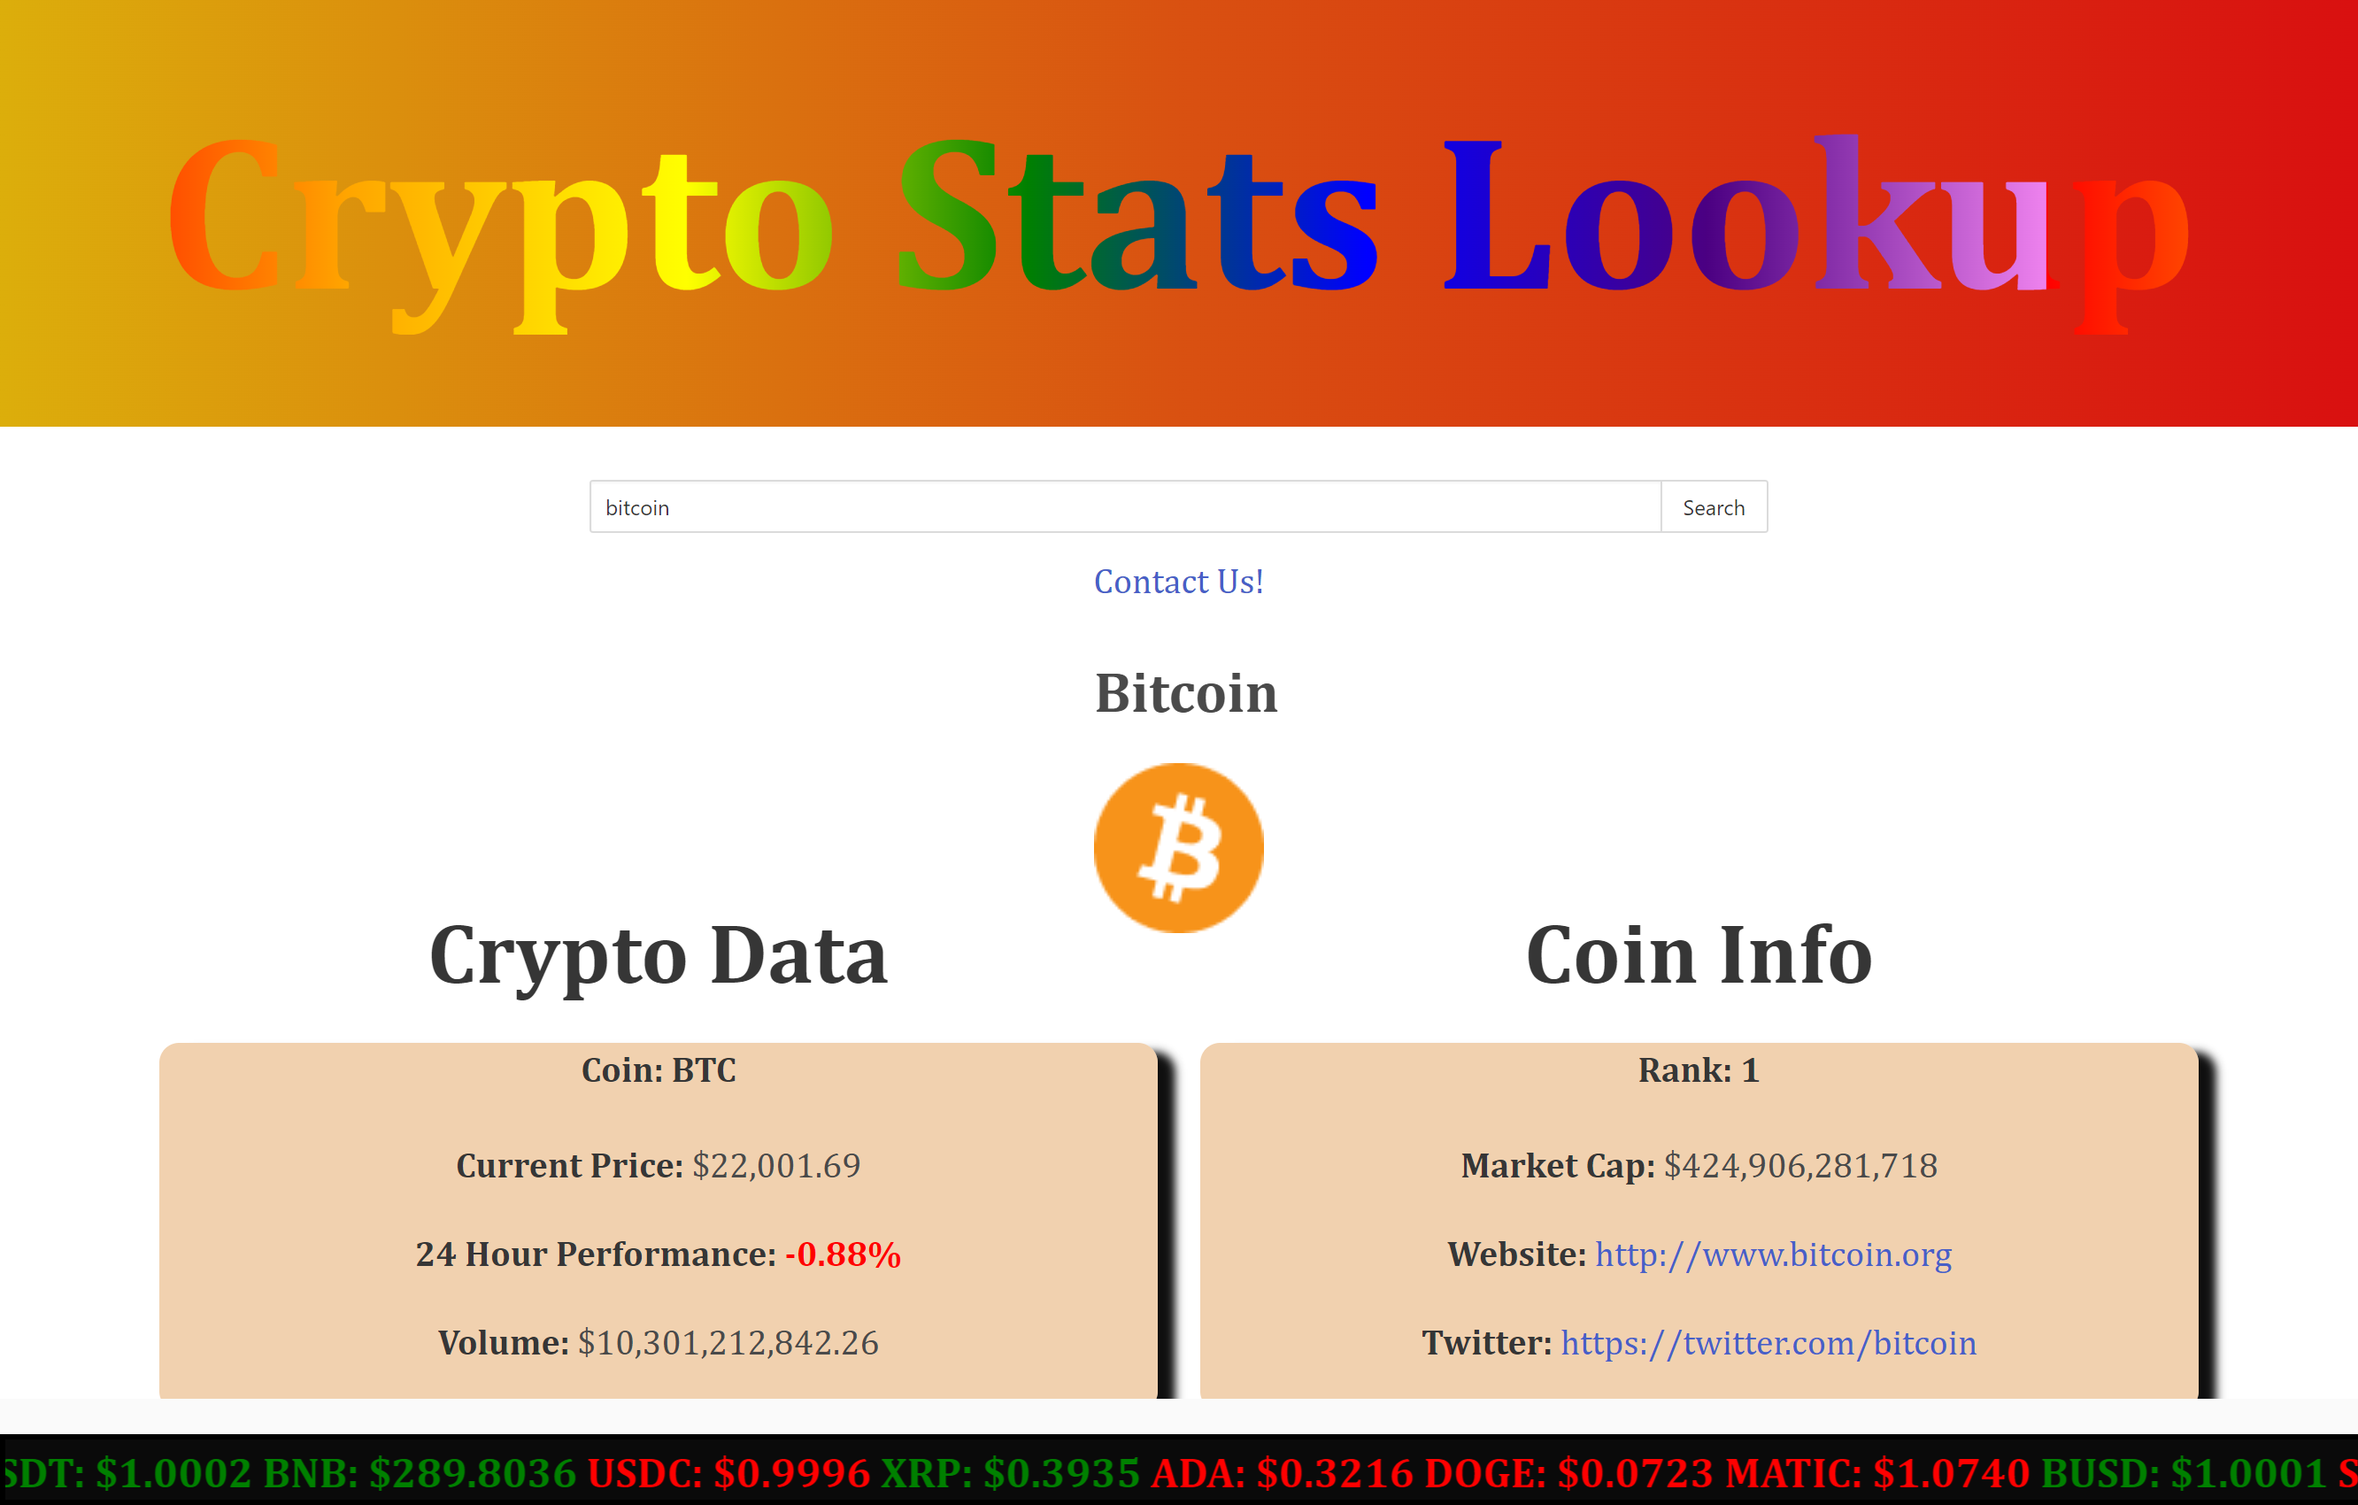
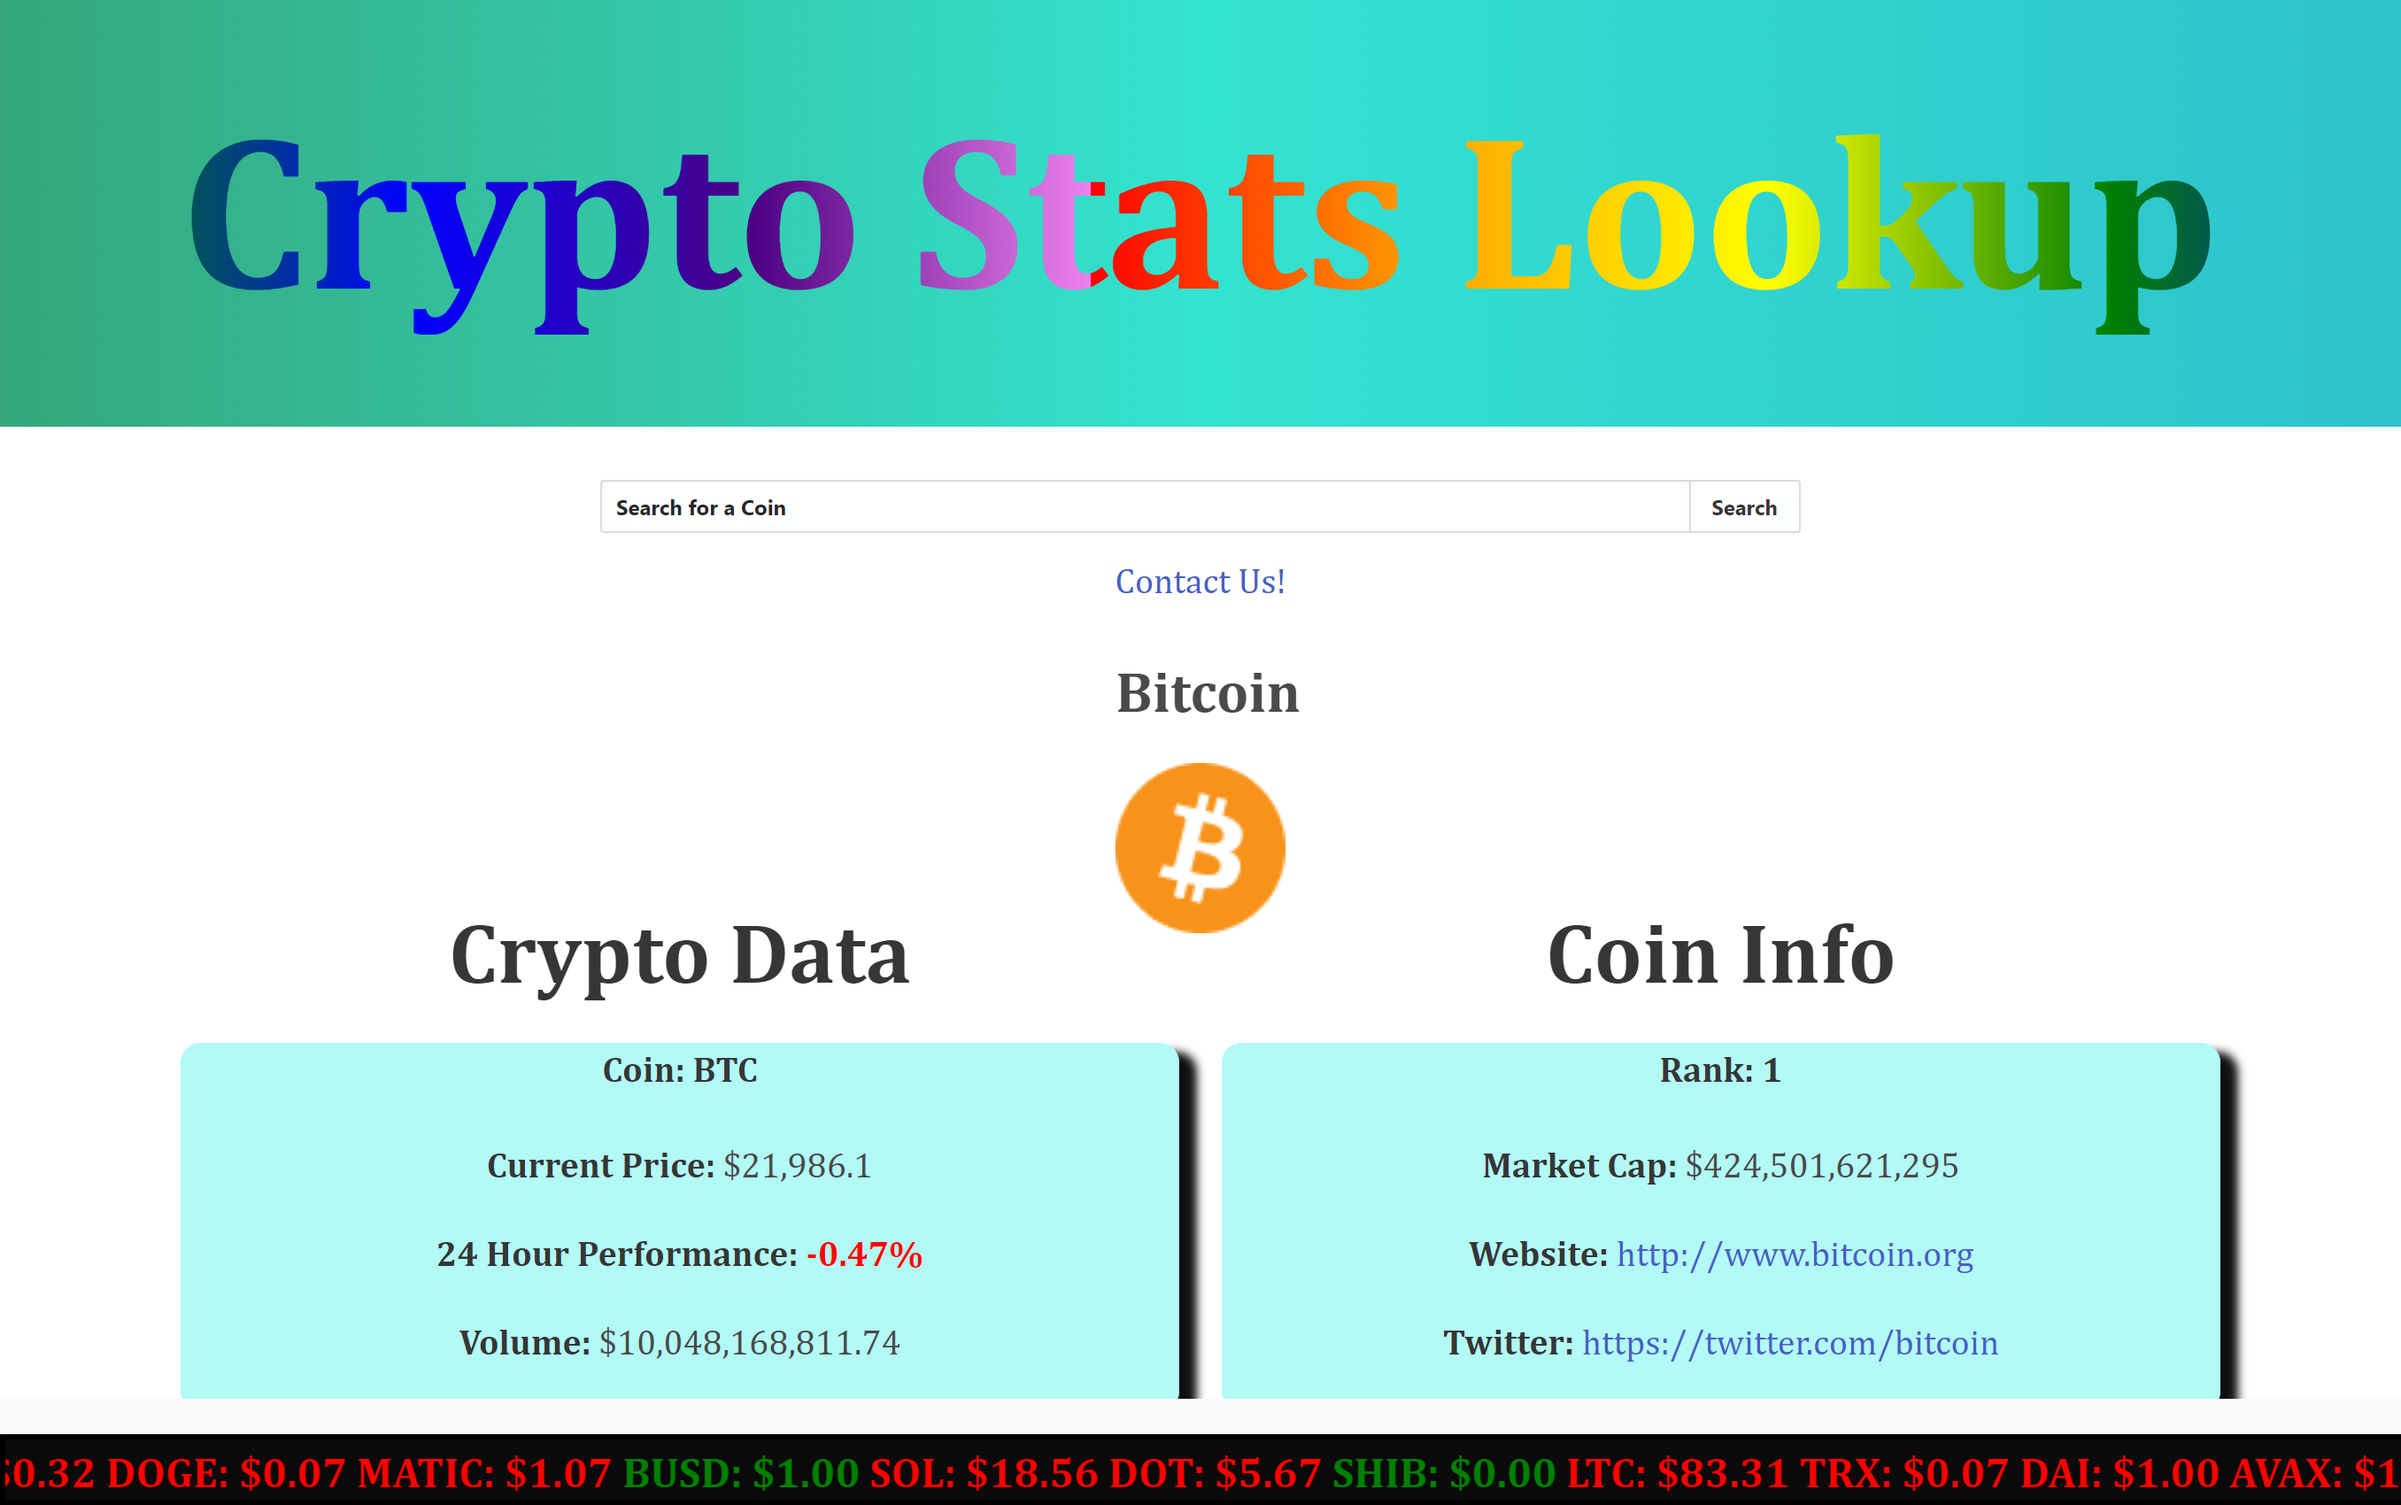
added new pics to readme

diff --git a/README.md b/README.md
@@ -58,17 +58,24 @@ WireFrame - Modal
 Mockup-Mobile
 </p></strong>
 
-<p align="center">
-    <img src="./assets/mockup-mobile.png" alt="mockup-mobile">
-</p>
+
 
 <strong><p align="center">
 Mockup-Web
 </p></strong>
 
 <p align="center">
-    <img src="./assets/mockup-web.png" alt="mockup-web">
+    <img src="./assets/webpage-deployment.png" alt="mockup-web">
 </p>
+
+<strong><p align="center">
+Mockup-Modal
+</p></strong>
+
+<p align="center">
+    <img src="./assets/modal-deployment.png" alt="mockup-web">
+</p>
+
 
 ---
 
